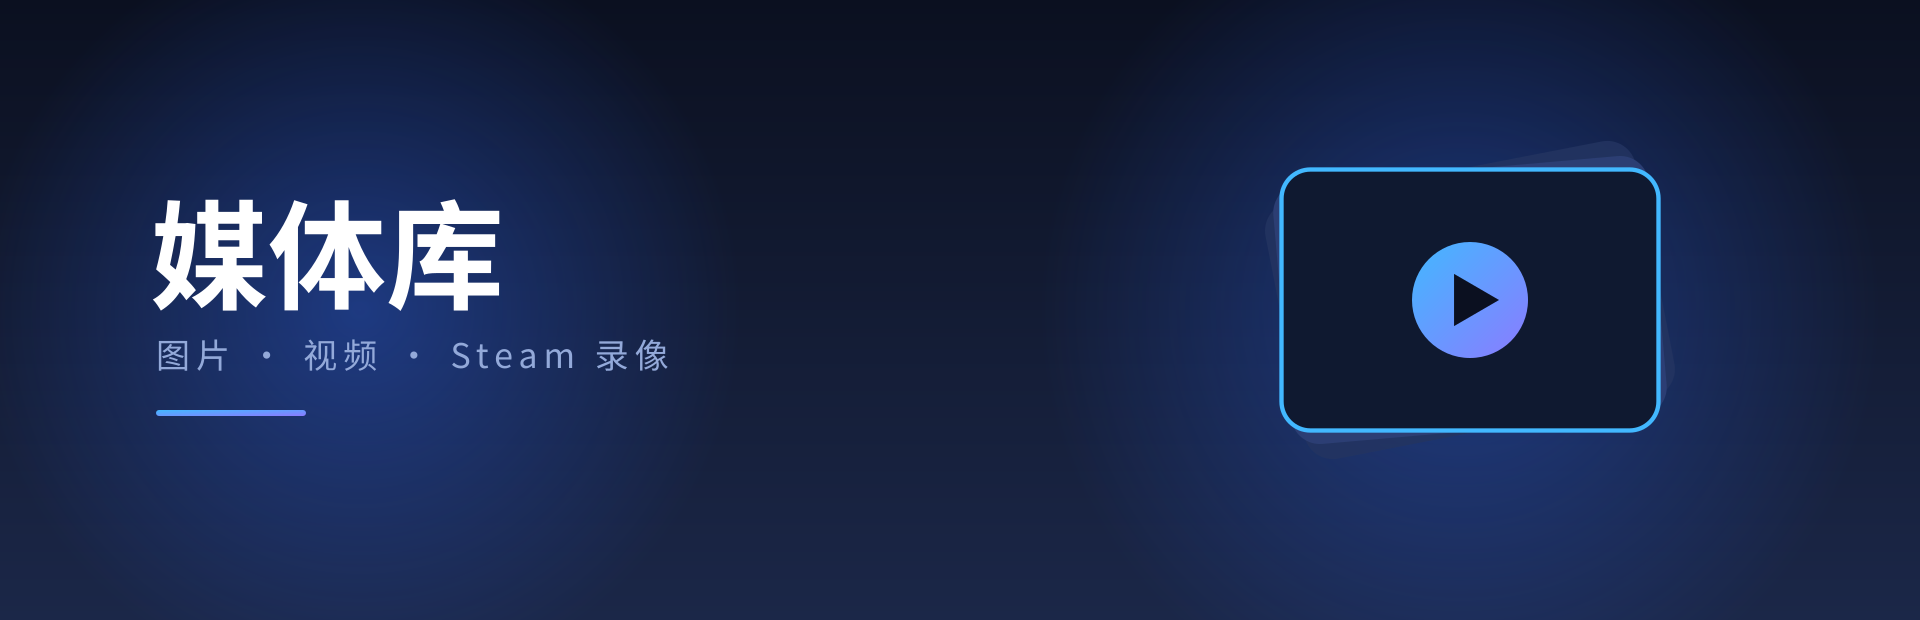
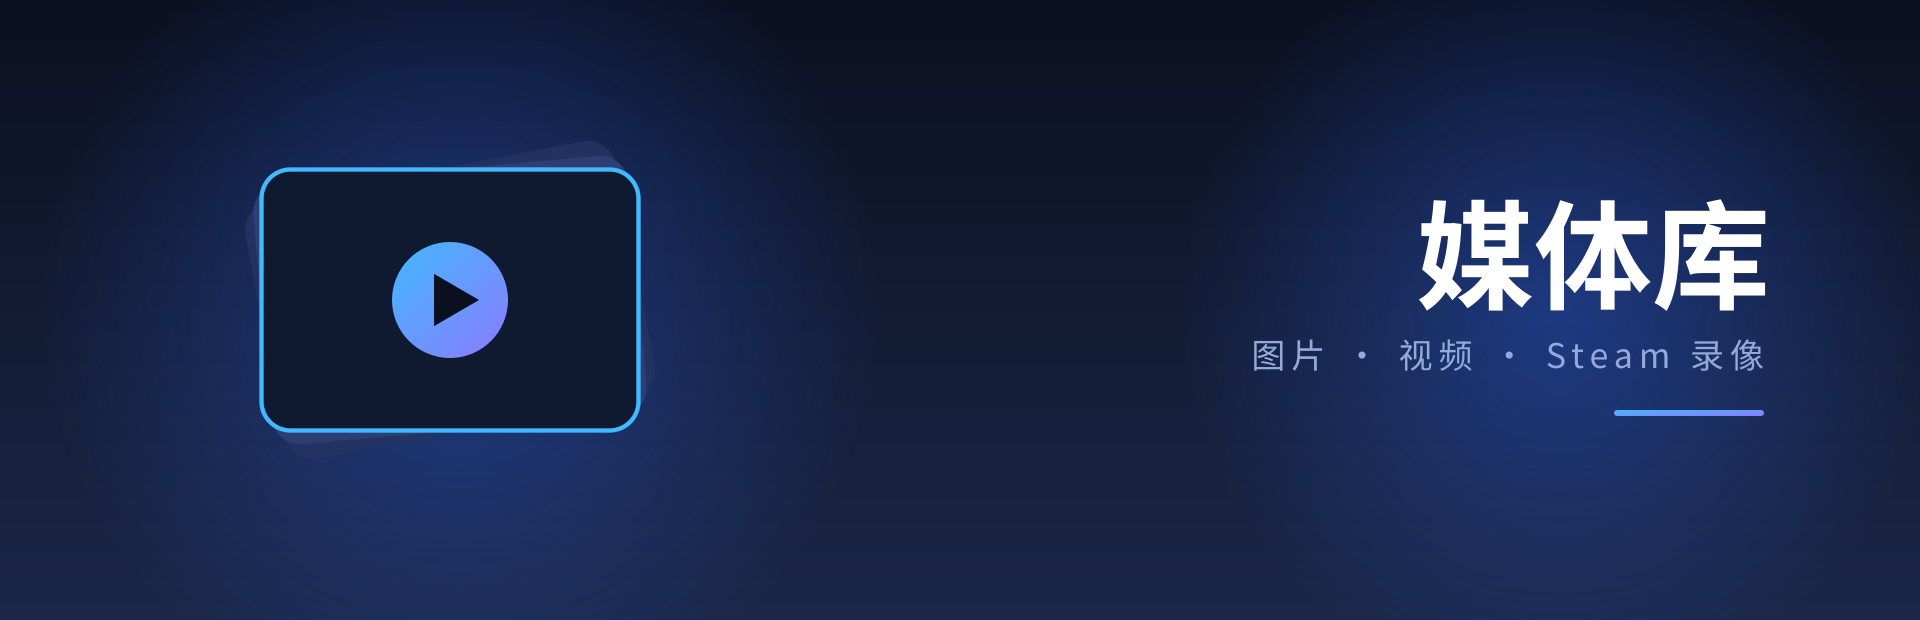
artwork: hero 左右对调（图标在左、标题在右）并优化；新增 artwork/make-preview.sh 复现预览图

Changed region(s): [[0.0625, 0.2145, 0.4062, 0.7048], [0.5938, 0.2452, 0.9375, 0.7355]]

diff --git a/CHANGELOG.md b/CHANGELOG.md
@@ -10,5 +10,6 @@
 - 随 app 附带 gst-libav（H.264/AAC），不改系统
 - 内置 evdev 手柄支持（左摇杆轮询、十字键、A/B、L1/R1 切分类或快进快退）
 - 集成 steamdeck-touchfix，让游戏模式透传真触摸
-- Steam 四卡槽自定义美术
+- Steam 四卡槽自定义美术（hero 配图改为图标在左、标题在右的镜像排布）
 - 一键安装脚本 install.sh
+- artwork/make-preview.sh：一键复现 README 顶部的配图总览
